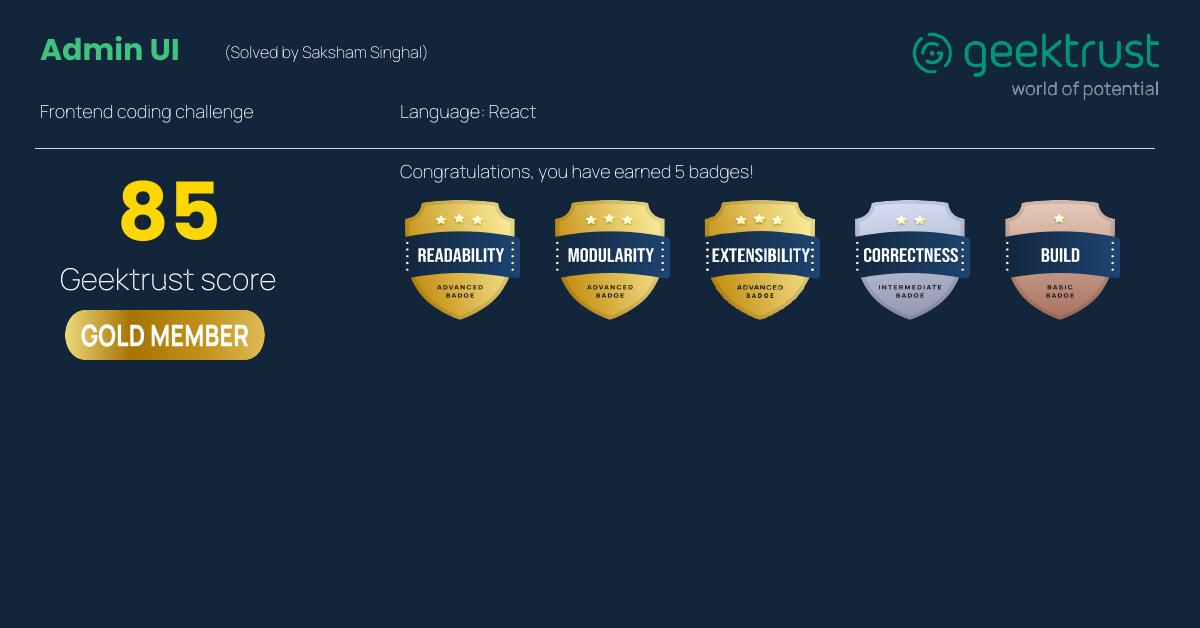
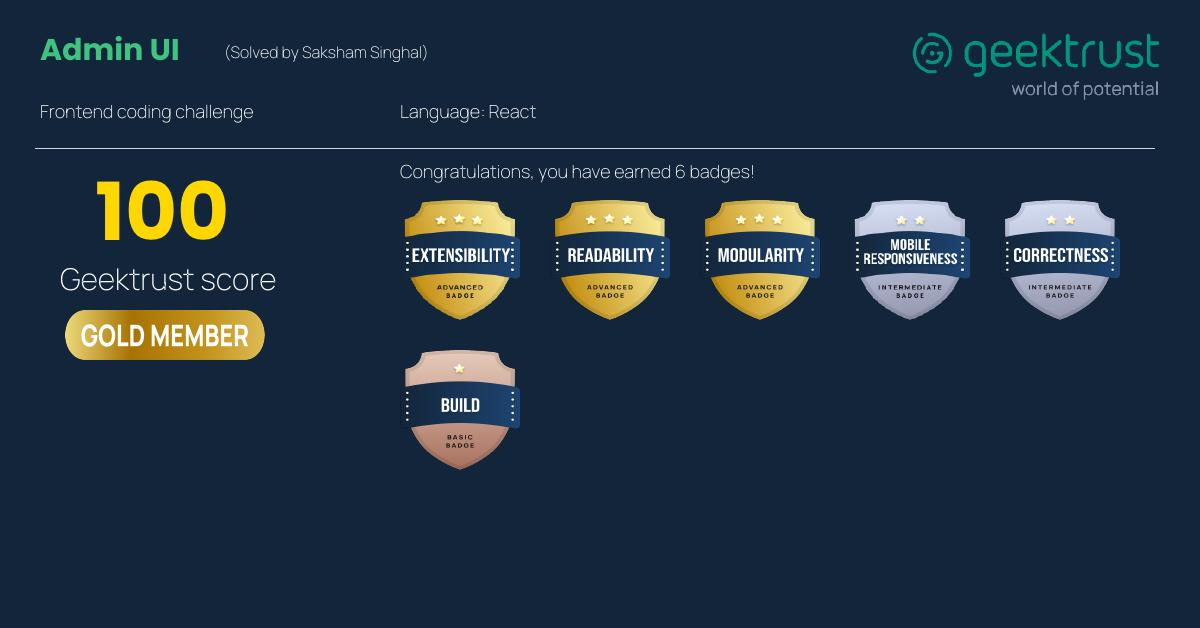
Added geektrust score

diff --git a/README.md b/README.md
@@ -9,7 +9,7 @@
 -->
 
 # AdminUI
-An interface for admins to see and delete users
+An interface for admins to view, edit and delete users
 
 <!-- TABLE OF CONTENTS -->
 <details>
@@ -38,6 +38,7 @@ An interface for admins to see and delete users
 ## About The Project
 
 [![Project Name Screen Shot][project-screenshot]](https://geektrust-adminui-saksham.netlify.app/)
+[![Geektrust Score][geektrust-score]]
 
 ### Problem Statement:
 
@@ -65,7 +66,7 @@ GET : https://geektrust.s3-ap-southeast-1.amazonaws.com/adminui-problem/members.
 
 ### Built With
 
-This section should list any major frameworks/libraries used to bootstrap your project. Leave any add-ons/plugins for the acknowledgements section. Here are a few examples.
+Major frameworks/libraries used in the project.
 
 * [![HTML][HTML]][HTML-url]
 * [![CSS][CSS]][CSS-url]
@@ -121,6 +122,7 @@ Saksham Singhal - [@dusk.mate](https://www.instagram.com/dusk.mate/) - hello@sak
 
 List of resources I found helpful and would like to give credit to
 
+* [Geektrust][https://www.geektrust.com/code-challenges]
 * [Best README Template](https://github.com/othneildrew/Best-README-Template/tree/master)
 * [Choose an Open Source License](https://choosealicense.com)
 * [Img Shields](https://shields.io)
@@ -130,6 +132,7 @@ List of resources I found helpful and would like to give credit to
 <!-- MARKDOWN LINKS & IMAGES -->
 <!-- https://www.markdownguide.org/basic-syntax/#reference-style-links -->
 [project-screenshot]: images/screenshot.png
+[geektrust-score]: images/Geektrust_Score.jpg
 [HTML]: https://img.shields.io/badge/HTML5-E34F26?style=for-the-badge&logo=html5&logoColor=white
 [HTML-url]: https://developer.mozilla.org/en-US/docs/Web/HTML
 [CSS]: https://img.shields.io/badge/CSS-239120?&style=for-the-badge&logo=css3&logoColor=white
